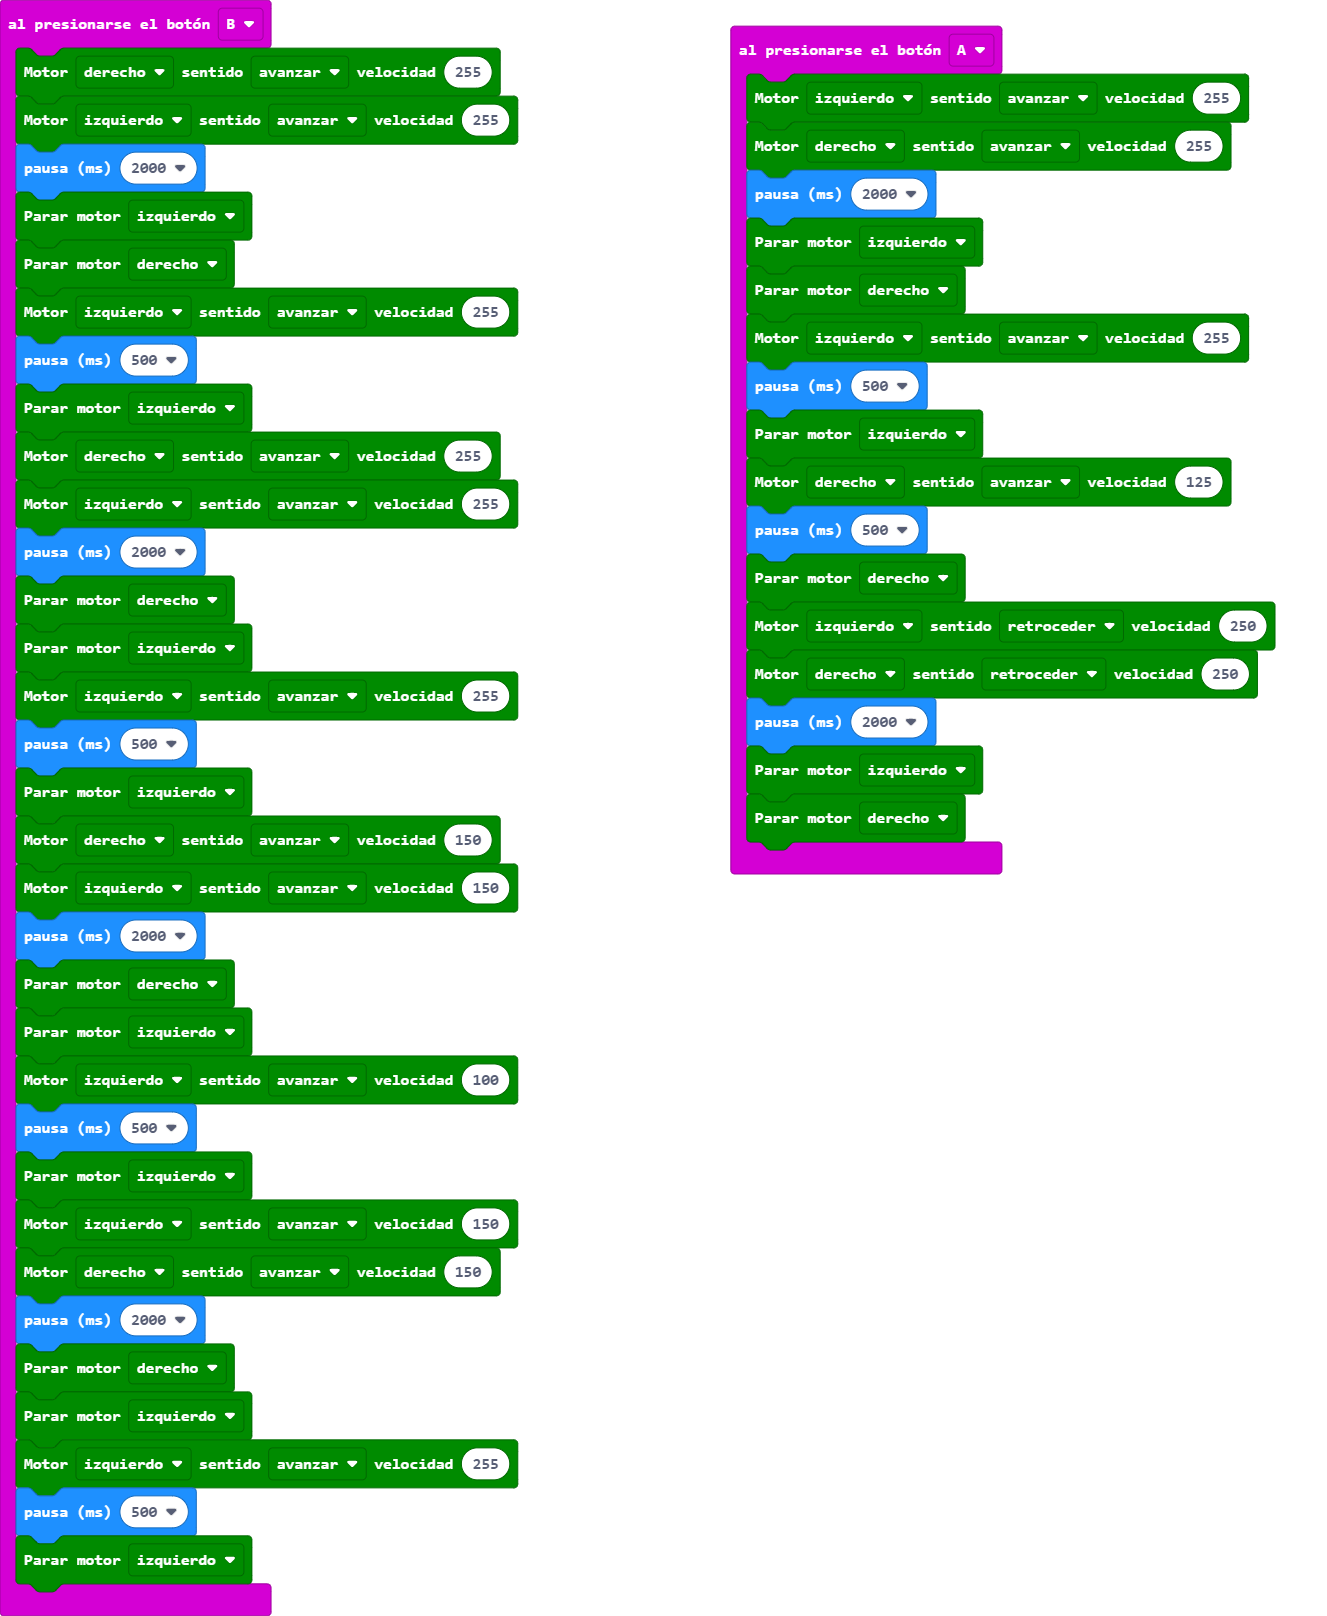
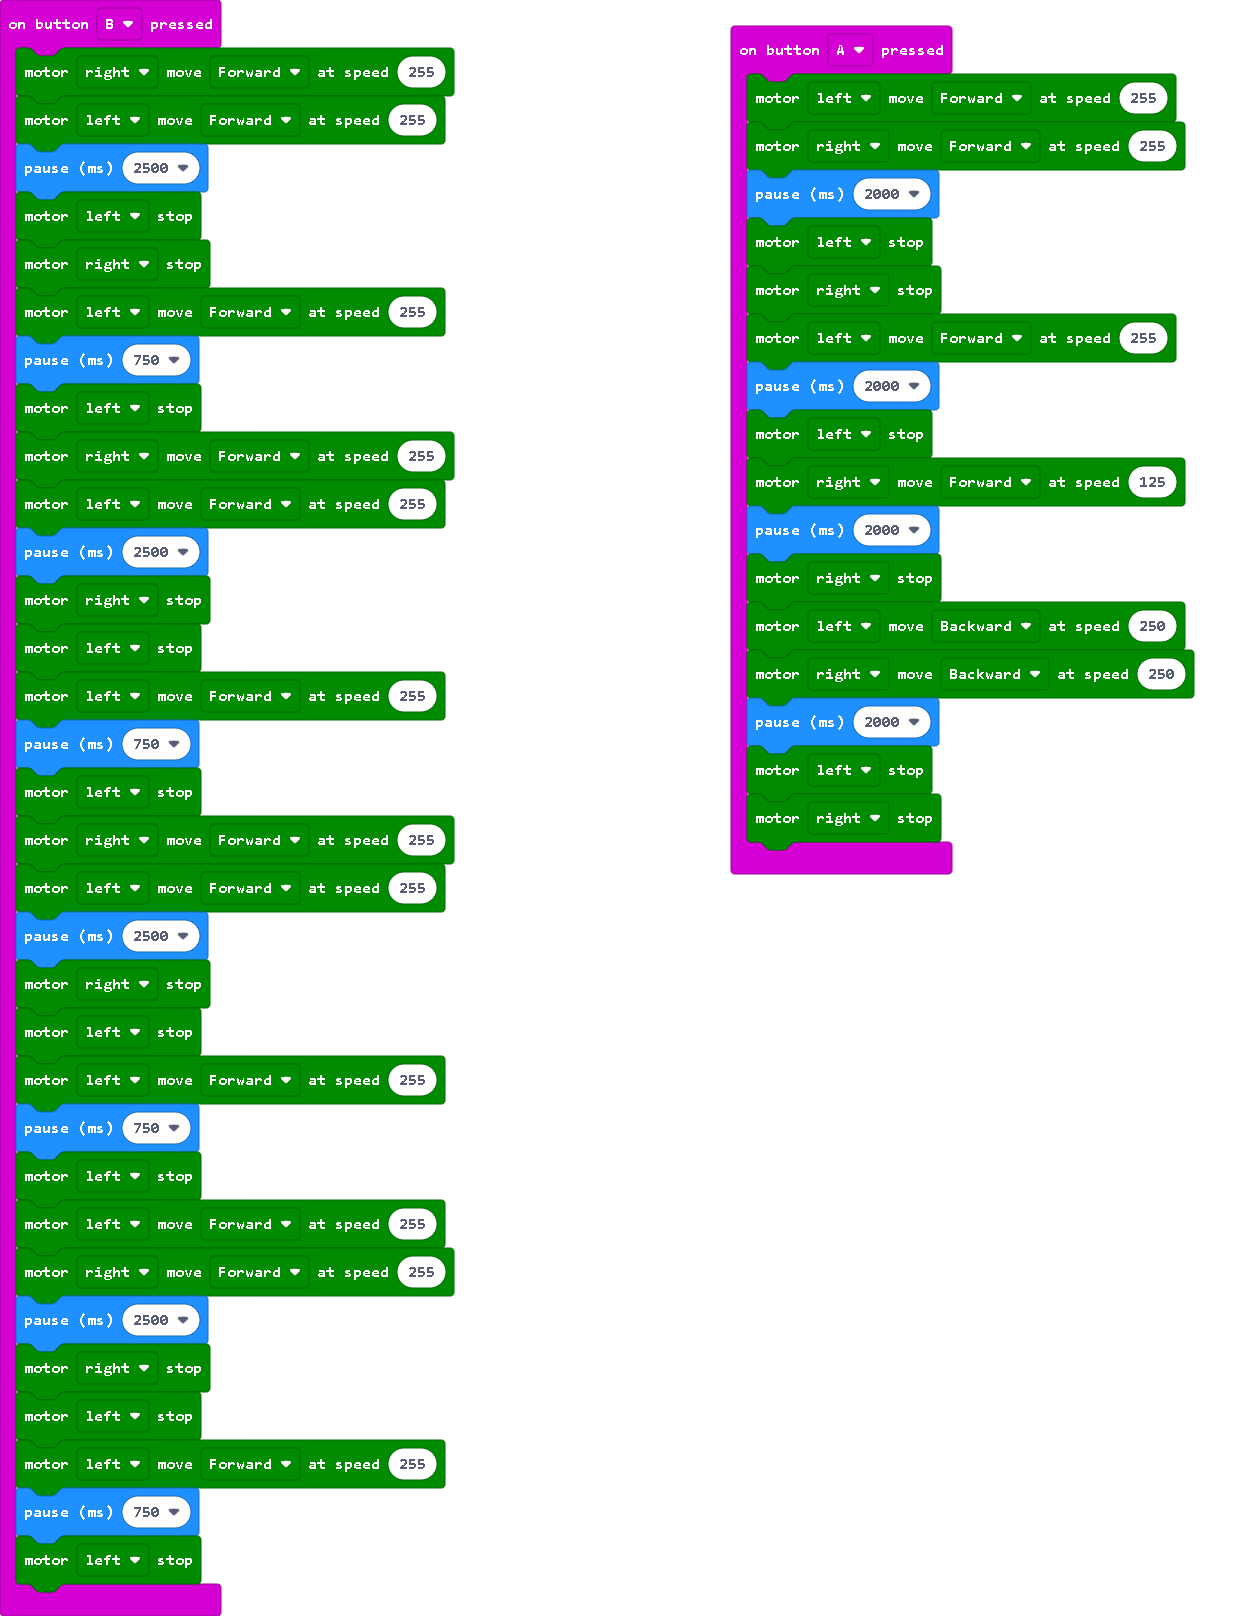
Update main.blocks, main.ts

diff --git a/main.ts b/main.ts
@@ -5,10 +5,10 @@ input.onButtonPressed(Button.A, function () {
     maqueen.motorStop(maqueen.Motors.M1)
     maqueen.motorStop(maqueen.Motors.M2)
     maqueen.motorRun(maqueen.Motors.M1, maqueen.Dir.CW, 255)
-    basic.pause(500)
+    basic.pause(2000)
     maqueen.motorStop(maqueen.Motors.M1)
     maqueen.motorRun(maqueen.Motors.M2, maqueen.Dir.CW, 125)
-    basic.pause(500)
+    basic.pause(2000)
     maqueen.motorStop(maqueen.Motors.M2)
     maqueen.motorRun(maqueen.Motors.M1, maqueen.Dir.CCW, 250)
     maqueen.motorRun(maqueen.Motors.M2, maqueen.Dir.CCW, 250)
@@ -19,34 +19,34 @@ input.onButtonPressed(Button.A, function () {
 input.onButtonPressed(Button.B, function () {
     maqueen.motorRun(maqueen.Motors.M2, maqueen.Dir.CW, 255)
     maqueen.motorRun(maqueen.Motors.M1, maqueen.Dir.CW, 255)
-    basic.pause(2000)
+    basic.pause(2500)
     maqueen.motorStop(maqueen.Motors.M1)
     maqueen.motorStop(maqueen.Motors.M2)
     maqueen.motorRun(maqueen.Motors.M1, maqueen.Dir.CW, 255)
-    basic.pause(500)
+    basic.pause(750)
     maqueen.motorStop(maqueen.Motors.M1)
     maqueen.motorRun(maqueen.Motors.M2, maqueen.Dir.CW, 255)
     maqueen.motorRun(maqueen.Motors.M1, maqueen.Dir.CW, 255)
-    basic.pause(2000)
+    basic.pause(2500)
     maqueen.motorStop(maqueen.Motors.M2)
     maqueen.motorStop(maqueen.Motors.M1)
     maqueen.motorRun(maqueen.Motors.M1, maqueen.Dir.CW, 255)
-    basic.pause(500)
+    basic.pause(750)
     maqueen.motorStop(maqueen.Motors.M1)
-    maqueen.motorRun(maqueen.Motors.M2, maqueen.Dir.CW, 150)
-    maqueen.motorRun(maqueen.Motors.M1, maqueen.Dir.CW, 150)
-    basic.pause(2000)
-    maqueen.motorStop(maqueen.Motors.M2)
-    maqueen.motorStop(maqueen.Motors.M1)
-    maqueen.motorRun(maqueen.Motors.M1, maqueen.Dir.CW, 100)
-    basic.pause(500)
-    maqueen.motorStop(maqueen.Motors.M1)
-    maqueen.motorRun(maqueen.Motors.M1, maqueen.Dir.CW, 150)
-    maqueen.motorRun(maqueen.Motors.M2, maqueen.Dir.CW, 150)
-    basic.pause(2000)
+    maqueen.motorRun(maqueen.Motors.M2, maqueen.Dir.CW, 255)
+    maqueen.motorRun(maqueen.Motors.M1, maqueen.Dir.CW, 255)
+    basic.pause(2500)
     maqueen.motorStop(maqueen.Motors.M2)
     maqueen.motorStop(maqueen.Motors.M1)
     maqueen.motorRun(maqueen.Motors.M1, maqueen.Dir.CW, 255)
-    basic.pause(500)
+    basic.pause(750)
+    maqueen.motorStop(maqueen.Motors.M1)
+    maqueen.motorRun(maqueen.Motors.M1, maqueen.Dir.CW, 255)
+    maqueen.motorRun(maqueen.Motors.M2, maqueen.Dir.CW, 255)
+    basic.pause(2500)
+    maqueen.motorStop(maqueen.Motors.M2)
+    maqueen.motorStop(maqueen.Motors.M1)
+    maqueen.motorRun(maqueen.Motors.M1, maqueen.Dir.CW, 255)
+    basic.pause(750)
     maqueen.motorStop(maqueen.Motors.M1)
 })
